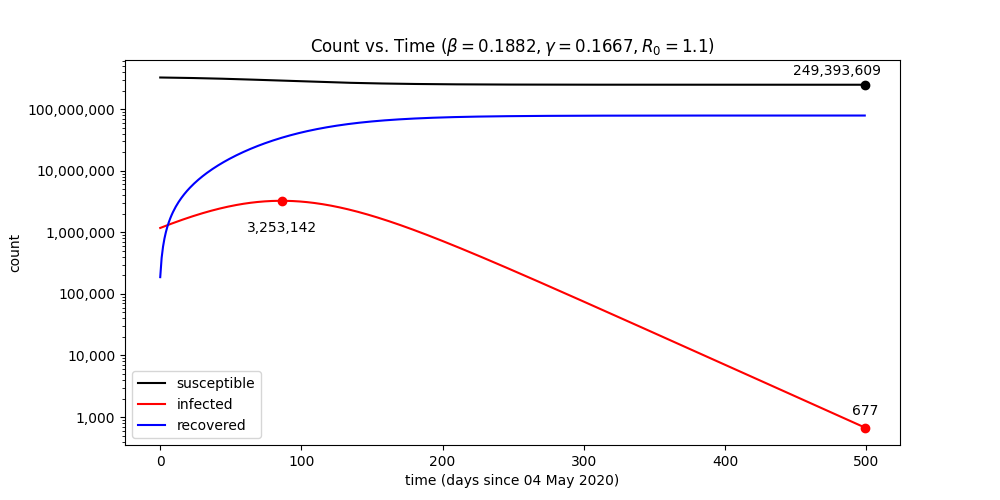
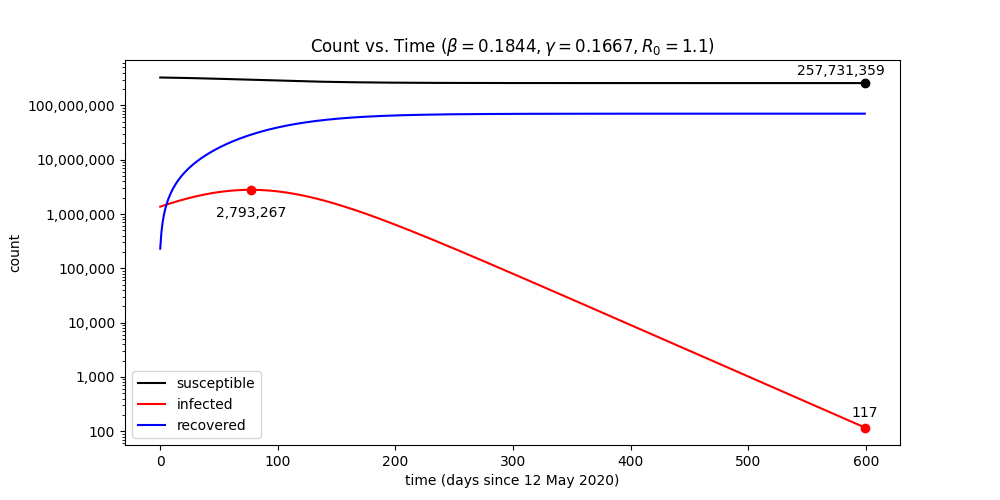
Use 2020-05-12 as a start date

diff --git a/model.py b/model.py
@@ -50,7 +50,7 @@ def main():
 
     # Projection
     project(
-        population=total_us_population, initial=initial, days=500, infection_rate=estimated_infection_rate,
+        population=total_us_population, initial=initial, days=600, infection_rate=estimated_infection_rate,
         recovery_rate=recovery_rate, start_date=start_date
     )
 
